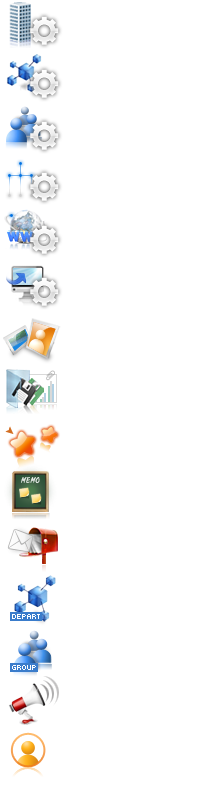
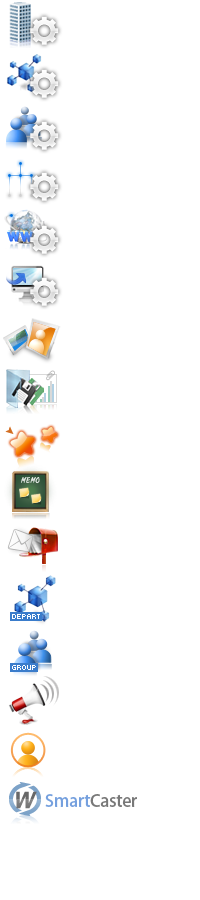
스마트 캐스터 페이지 수정

Changed region(s): [[0.03, 0.0, 0.69, 0.9688]]

diff --git a/WebContent/css/black/detail.css b/WebContent/css/black/detail.css
@@ -25,6 +25,7 @@
 .body_titl > .group {background: url("../../images/body_title.png") no-repeat 0 -625px transparent; padding:0 13px 0 0; line-height:18px; min-height:52px; width:50px}
 .body_titl > .depart {background: url("../../images/body_title.png") no-repeat 0 -574px transparent; padding:0 13px 0 0; line-height:18px; min-height:52px; width:50px}
 .body_titl > .user {background: url("../../images/body_title.png") no-repeat 0 -725px transparent; padding:0 13px 0 0; line-height:18px; min-height:52px; width:50px}
+.body_titl > .smartcaster {background: url("../../images/body_title.png") no-repeat 0 -776px transparent; padding:0 13px 0 0; line-height:18px; min-height:52px; width:140px}
 
 .body_titl_area {background: url("../../images/body_title.png") no-repeat 0 0 transparent; padding:22px 0 0 68px; line-height:18px}
 .body_titl_area.ti_company {background-position:0 0}
